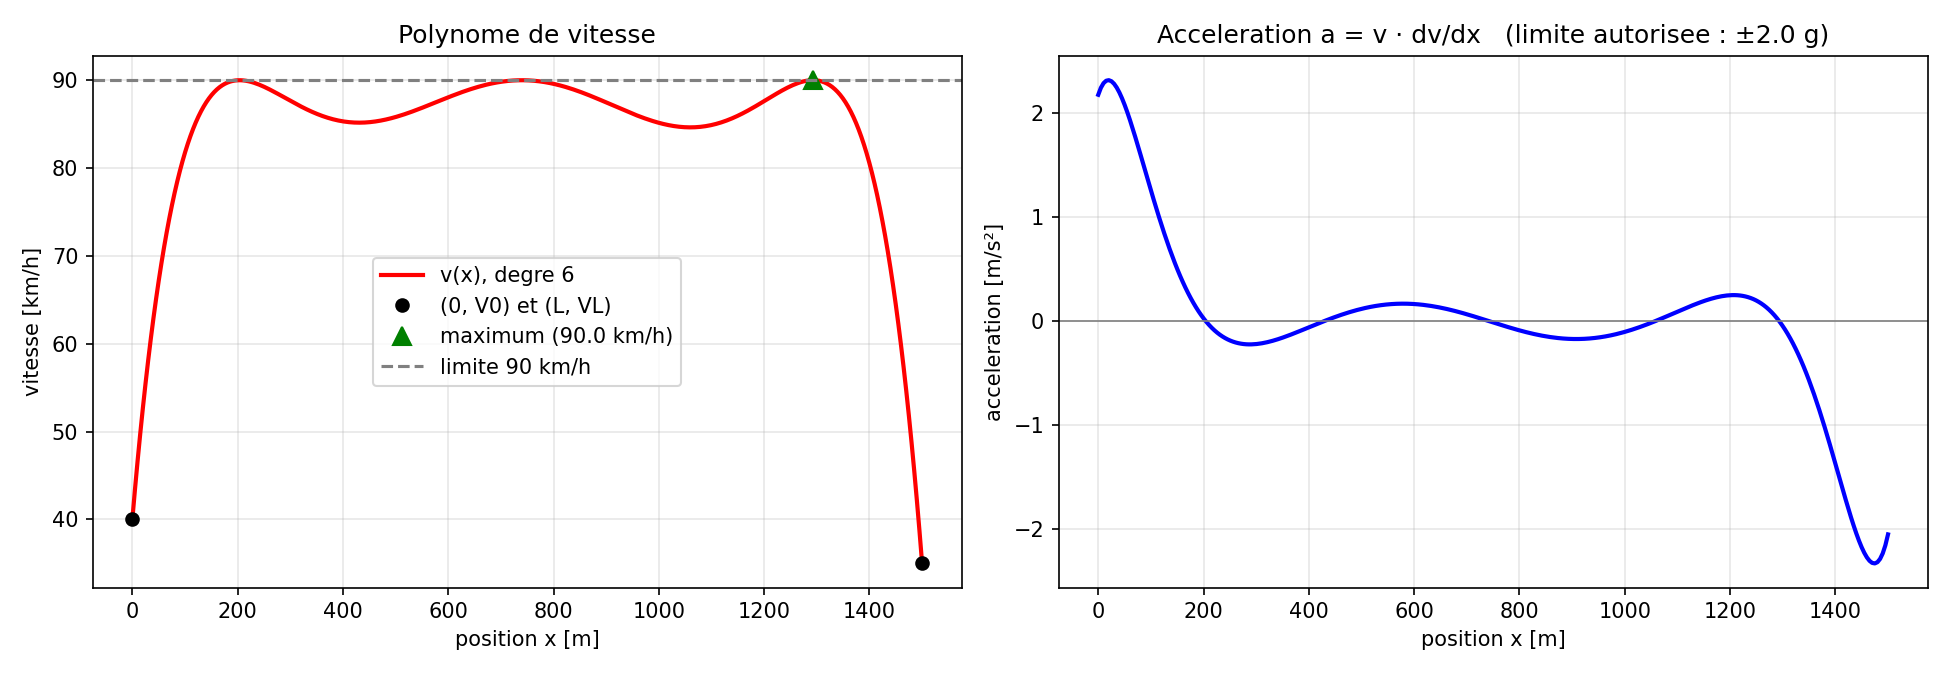
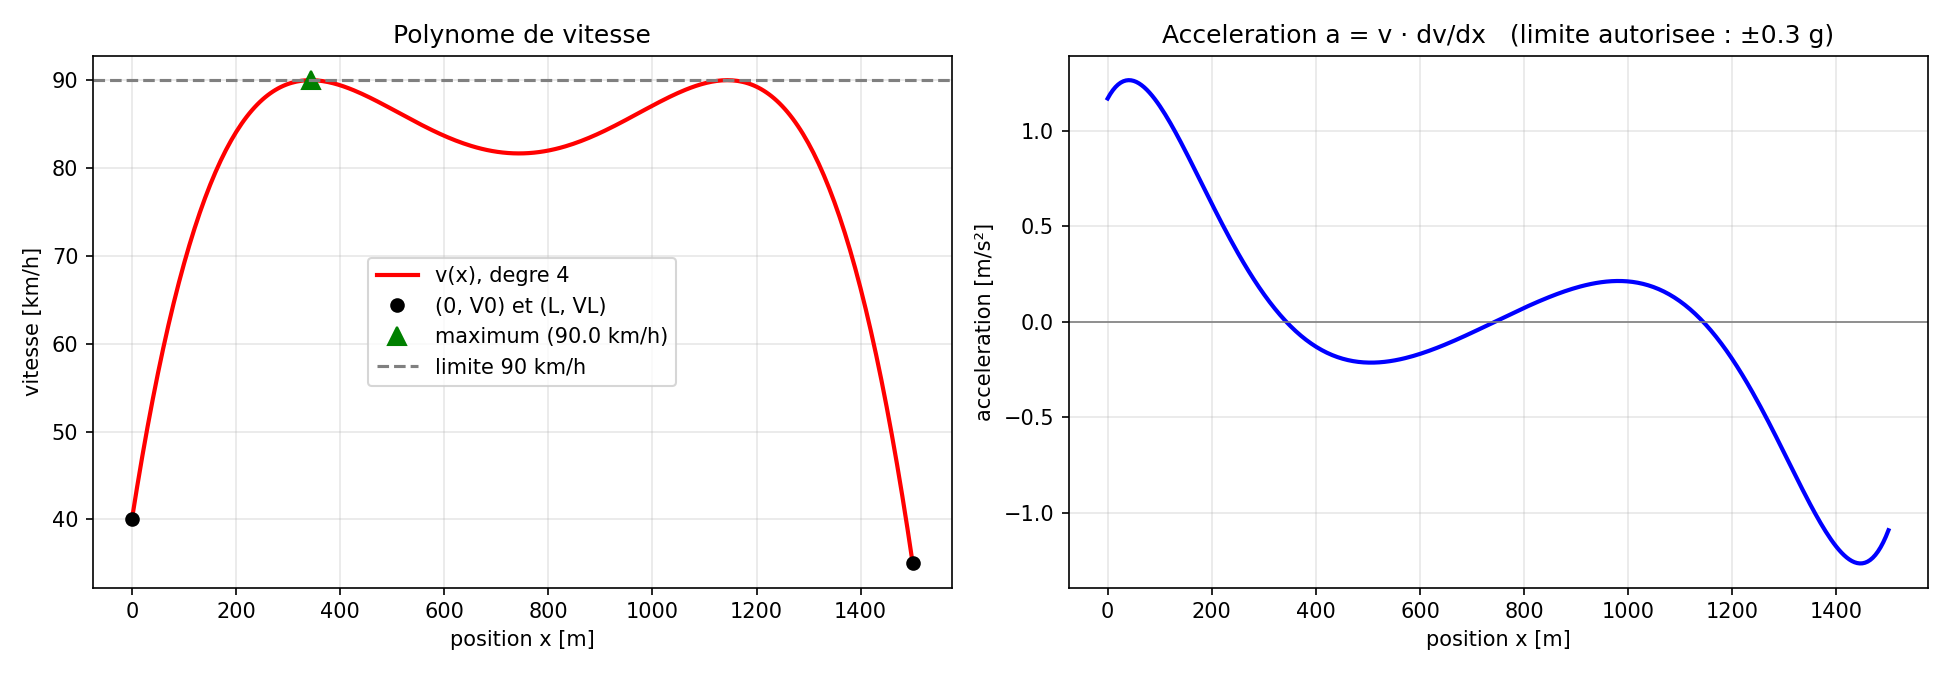
Mise en place maximum de vraisemblance

diff --git a/tests/mains/main_04_maximum_vraisemblance.py b/tests/mains/main_04_maximum_vraisemblance.py
@@ -11,17 +11,18 @@ from vitesse import MaximumLikelihood, Noise, SpeedPolynomial, create_rng, gener
 # ----------------------------------------------------------------------
 # 1. PARAMETRES  (modifie ici, pas dans le reste du script)
 # ----------------------------------------------------------------------
-LONGUEUR = 2000.0                    # longueur du tronçon [m]
-V0 = 70.0                            # vitesse au début du tronçon [km/h]
-VL = 80.0                            # vitesse à la fin du tronçon [km/h]
-V_LIMITE = 90.0                      # limite de vitesse [km/h]
-D = 2                                # degré du VRAI polynôme
-COEFS_LIBRES = None                  # None = calcul automatique ; ou une liste [c2, ..., cd]
-SIGMA = 5.0                          # écart-type du bruit [km/h]
-N_POINTS = 100                       # nombre de points mesurés
-D_ESTIME = 2                         # degré utilisé pour l'estimation (en vrai il est « connu » : = D ; essaie D+1 ou D-1)
-GRAINE = None                        # None = aléatoire (graine affichée) ; un entier = reproductible
-AFFICHER = True                      # True : ouvre la fenêtre du graphique ; False : sauvegarde seulement
+LONGUEUR = 1500.0                       # longueur du tronçon [m]
+V0 = 40.0                               # vitesse au début du tronçon [km/h]
+VL = 35.0                               # vitesse à la fin du tronçon [km/h] (doit être <= V_LIMITE)
+V_LIMITE = 90.0                         # limite de vitesse du tronçon [km/h]
+D = 4                                   # degré du polynôme
+COEFS_LIBRES = None                     # None = calcul automatique ; ou une liste [c2, ..., cd]
+SIGMA = 5.0                             # écart-type du bruit [km/h]
+N_POINTS = 1000                          # nombre de points mesurés
+N_SIGMA = 2.0                           # largeur de la bande : ± N_SIGMA · sigma_chapeau (1 -> ~68 % des mesures, 2 -> ~95 %, 3 -> ~99,7 %)
+D_ESTIME = D                            # degré utilisé pour l'estimation (en vrai il est « connu » : = D ; essaie D+1 ou D-1)
+GRAINE = None                           # None = aléatoire (graine affichée) ; un entier = reproductible
+AFFICHER = True                         # True : ouvre la fenêtre du graphique ; False : sauvegarde seulement
 
 
 def main():
@@ -42,13 +43,19 @@ def main():
     grille = np.linspace(0, LONGUEUR, 300)
     erreur = estimateur.speed(grille) - vrai.speed(grille)
     print(f"erreur sur la courbe : RMSE = {np.sqrt(np.mean(erreur ** 2)):.2f} km/h, erreur max = {np.abs(erreur).max():.2f} km/h")
+    centre = estimateur.speed(grille)
+    demi_largeur = N_SIGMA * estimateur.sigma
+    dans_bande = np.abs(v - estimateur.speed(x)) <= demi_largeur
+    print(f"bande ±{N_SIGMA} sigma_chapeau = ±{demi_largeur:.1f} km/h : {np.mean(dans_bande):.0%} des mesures dedans")
     print(f"graine utilisee : {graine}   (pour regenerer : GRAINE = {graine})")
 
     # 4) Tracer
     plt.figure(figsize=(9, 5))
     plt.scatter(x, v, s=25, c="red", marker="+", linewidths=0.8, alpha=0.8, label=f"mesures ({N_POINTS} points)")
     plt.plot(grille, vrai.speed(grille), "b-", lw=2, label="vraie vitesse v(x)")
-    plt.plot(grille, estimateur.speed(grille), "g--", lw=2, label=f"estimation (degre {D_ESTIME})")
+    plt.plot(grille, centre, "g--", lw=2, label=f"estimation (degre {D_ESTIME})")
+    plt.fill_between(grille, centre - demi_largeur, centre + demi_largeur, color="green", alpha=0.15,
+                 label=f"estimation ± {N_SIGMA:g} sigma_chapeau")
     plt.xlabel("position x [m]")
     plt.ylabel("vitesse [km/h]")
     plt.title(f"Maximum de vraisemblance : sigma = {SIGMA} (graine {graine})")

diff --git a/tests/mains/main_01_polynome.py b/tests/mains/main_01_polynome.py
@@ -16,8 +16,8 @@ LONGUEUR = 1500.0                    # longueur du tronçon [m]
 V0 = 40.0                            # vitesse au début du tronçon [km/h]
 VL = 35.0                            # vitesse à la fin du tronçon [km/h] (doit être <= V_LIMITE)
 V_LIMITE = 90.0                      # limite de vitesse du tronçon [km/h]
-D = 6                                # degré du polynôme (essaie 3 ou 4 : la courbe colle plus longtemps à 90)
-A_MAX_G = 2.0                        # accélération maximale autorisée [g] (1 g = 9,81 m/s² ; voiture normale : 0,1 à 0,3 g)
+D = 4                                # degré du polynôme (essaie 3 ou 4 : la courbe colle plus longtemps à 90)
+A_MAX_G = 0.3                        # accélération maximale autorisée [g] (1 g = 9,81 m/s² ; voiture normale : 0,1 à 0,3 g)
 COEFS_LIBRES = None                  # None = calcul automatique ; ou une liste [c2, ..., cd] (D-1 valeurs) à la main
 AFFICHER = True                      # True : ouvre la fenêtre du graphique ; False : sauvegarde seulement
 

diff --git a/tests/mains/main_03_simulation.py b/tests/mains/main_03_simulation.py
@@ -18,7 +18,7 @@ D = 4                                # degré du polynôme
 A_MAX_G = 0.3                        # accélération maximale autorisée [g] (voiture normale : 0,1 à 0,3 g)
 COEFS_LIBRES = None                  # None = calcul automatique ; ou une liste [c2, ..., cd] (D-1 valeurs) à la main
 LOI = "normale"                      # loi du bruit
-SIGMA = 15.0                          # écart-type du bruit [km/h]
+SIGMA = 5.0                          # écart-type du bruit [km/h]
 N_POINTS = 1000                       # nombre de points mesurés
 GRAINE = None                        # None = aléatoire à chaque lancement (la graine utilisée est affichée) ; un entier (ex. 42) = toujours les mêmes données
 AFFICHER = True                      # True : ouvre la fenêtre du graphique ; False : sauvegarde seulement

diff --git a/docs/formulation.md b/docs/formulation.md
@@ -24,23 +24,21 @@ $$
    - Si plusieurs virage --> décéleration puis réaccélération ? Si oui possible correlation avec d et nb virage ? Pour ca voir TP1/2
 
 
-## 3. Ce que je pense faire
-
-1. **Estimateur de base** : moindres carres ordinaires (MCO). C'est le maximum de vraisemblance
-   si le bruit est gaussien i.i.d.
-2. **Caracterisation** : biais, covariance, RMSE de $\hat{v}(x)$ par Monte-Carlo ; comparaison a la
-   borne de Cramer-Rao; sensibilite a $\sigma$, $N$, $d$, au conditionnement (base de Legendre).
-3. **Cas difficile** : montrer ou le MCO casse (aberrants, correlation, mauvais degre), puis proposer des estimateurs robustes (Huber, moindres carres ponderes iteres, RANSAC, mediane, ...) et les comparer au MCO par les memes experiences. (Proposition IA)
-4. **Illustration** : tracer $\hat{v}(x)$ avec bande de confiance sur des exemples simules. J'aimerai reussir à relier les min de mes barres d'erreurs et max entre eux comme sur les carnets de santé pour la taille/poids.
-
-
-## 4. Points bloquants / questions pour lundi
+## 3. Points bloquants / questions pour lundi
 
 **Sur la simulation**
 1. Les positions sont-elles aleatoires uniformes ou imposees (plan d'experience) ? Le nombre
    d'envois par vehicule suit-il une loi precise ? Un véhicule peut envoyer plusieurs valeurs ? A intervalle de distance régulière ? 
 
+2. Est ce que en générant avec RNG mais avec une meme graine une loi uniforme et la loi normale, $x_k$ devient corrélé à $\epsilon_k$ ?
+
 **Sur la robustesse et la caracterisation**
 
-2. Robuste **a quoi** : aux valeurs aberrants (conducteur qui s'arrete/ralenti)--> loin de l'estimation. Comment on définit le loin ? (Seuil par rapport à la vitesse max ? Seuil par rapport à 0)
+3. Robuste **a quoi** : aux valeurs aberrants (conducteur qui s'arrete/ralenti)--> loin de l'estimation. Comment on définit le loin ? (Seuil par rapport à la vitesse max ? Seuil par rapport à 0)
 
+4. Comment je le caractérise ? Quel outils ?
+
+      - Borne de Cramer Rao
+      - Vu peut-être lors des prochains TP ?
+
+5. Qu'est ce qu'il se passe si $D \neq D_{estimé}$ ? 
